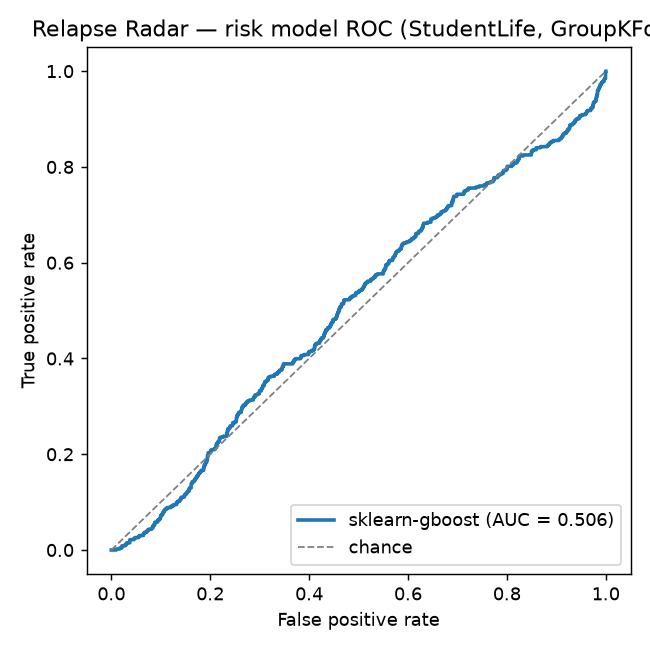
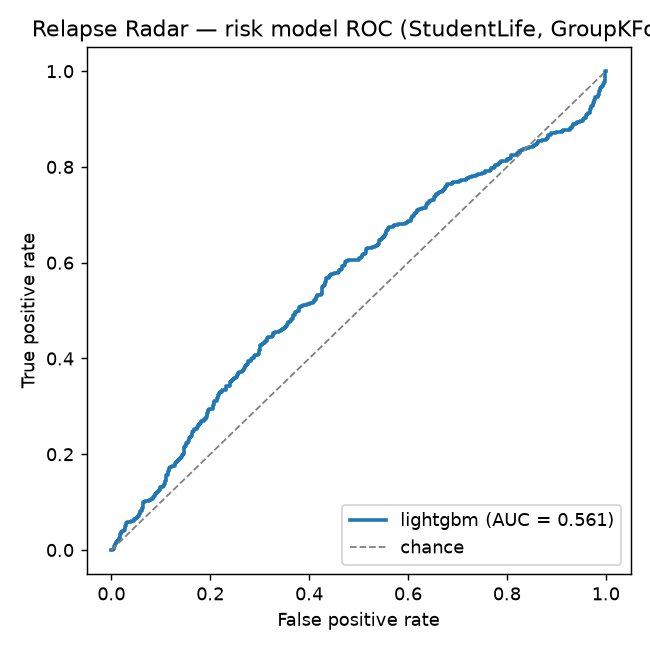
brain updated

diff --git a/brain/scorer.py b/brain/scorer.py
@@ -72,7 +72,9 @@ RISK_DIRECTION: dict[str, str] = {
 _FALLBACK_GAIN = 0.9
 _FALLBACK_PIVOT = 2.0
 
-_ARTIFACT = Path(__file__).resolve().parent / "models" / "fusion_model.joblib"
+_ARTIFACT = Path(
+    os.getenv("RELAPSE_MODELS_DIR", str(Path(__file__).resolve().parent / "model"))
+) / "fusion_model.joblib"
 
 
 def zscores(features: dict[str, Any]) -> dict[str, float]:

diff --git a/brain/config.py b/brain/config.py
@@ -11,7 +11,8 @@ from pathlib import Path
 
 # --- Paths ---
 REPO_ROOT = Path(__file__).resolve().parent.parent
-MODELS_DIR = REPO_ROOT / "brain" / "models"
+# Where the trained model artifact is saved. Override with RELAPSE_MODELS_DIR.
+MODELS_DIR = Path(os.getenv("RELAPSE_MODELS_DIR", str(REPO_ROOT / "brain" / "model")))
 NOTEBOOKS_DIR = REPO_ROOT / "brain" / "notebooks"
 
 # StudentLife dataset root. Override with RELAPSE_DATASET_DIR if it lives elsewhere.

diff --git a/context/p1-context.md b/context/p1-context.md
@@ -176,3 +176,36 @@ You are the **critical path**. Concretely:
 - **Mock your dependencies** (use `shared/fixtures/`), integrate early.
 - Keep your status row current in `docs/Relapse-Radar-Context.md` §B10.
 - The honest framing that wins judges: we validate the *method* on the best available labeled behavioral data (depression/schizophrenia relapse); productionizing for addiction needs a recovery-cohort study — that's on the roadmap, not hidden.
+
+---
+
+## 10. Progress log — agent changes (append-only; pull before you start) ⭐
+
+> Team convention: every agent action on the P1 slice is appended here so cross-person tracking is easy. **Pull before you start.** Newest entry at the bottom.
+
+### 2026-06-24 — P1 (Siam) — model trained + saved, paths made configurable
+
+**Status: P1 functionally complete and integration-ready. `assess()` works, honors the frozen contract, and unblocks P3. LightGBM trained + saved.**
+
+**Code changes**
+- `brain/config.py` — `MODELS_DIR` is now configurable via the `RELAPSE_MODELS_DIR` env var and **defaults to `brain/model/`** (singular). Dataset path still overridable via `RELAPSE_DATASET_DIR`.
+- `brain/scorer.py` — `_ARTIFACT` now lazy-loads the trained model from `brain/model/` (respects `RELAPSE_MODELS_DIR`) so training output and serving stay in sync.
+
+**Training run (in venv `C:\custom\Hackathon\.venv`, dataset `C:\custom\Hackathon\dataset\studentlife`)**
+- Loaded **2439 user-days across 46 users** (8/46 positive, 19% positive user-days).
+- Backend: **LightGBM** (`lightgbm.sklearn.LGBMClassifier`) — verified by loading the artifact, not just the log.
+- **GroupKFold AUC: 0.561** — near-chance, expected/honest (StudentLife PHQ-9 = trait depression, not relapse). Headline AUC will come from CrossCheck or P2's ablation.
+- Artifact saved → **`brain/model/fusion_model.joblib`** (422 KB). ROC chart → `brain/notebooks/roc_auc.png`.
+
+**Serving note (important for P2/P3):** `assess()` serves the **calibrated logistic fallback** by default (smooth GREEN→RED demo arc). The trained LightGBM only loads when `RELAPSE_USE_TRAINED_MODEL=1`, because StudentLife labels would flatten the demo. The trained model exists for inspection/SHAP.
+
+**Run commands**
+```powershell
+$env:RELAPSE_DATASET_DIR="C:\custom\Hackathon\dataset\studentlife"
+& "C:\custom\Hackathon\.venv\Scripts\python.exe" -m brain.train     # train + AUC, saves to brain/model/
+& "C:\custom\Hackathon\.venv\Scripts\python.exe" -m brain.assess    # smoke-test on fixtures
+```
+
+**Dependency check for P2 (asked 6/24):**
+- ✅ UNBLOCKED: `detect`/`drivers` already wired into `assess.py`; trained LightGBM object now available at `brain/model/fusion_model.joblib` for the SHAP `TreeExplainer` swap + real-data ablation.
+- ⚠️ STILL OPEN (P1 TODO): a **shared per-user rolling baseline** (`to_zscores(record, history)`, median/IQR, weekday/weekend) so model input + drivers + ablation all z-score identically. Today `scorer.py` only exposes a **population** baseline. A draft exists at `brain/draft_files/brain/models/baseline.py` — not yet promoted into the live `brain/` package. Note: the saved model was trained on **population** z-scores, so SHAP against a personal baseline needs alignment first.